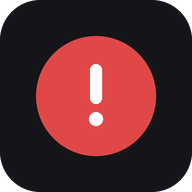
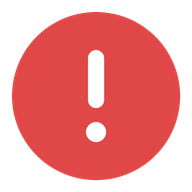
Notifications : icônes sans fond, symbole seul (v0.52.0)

diff --git a/CHANGELOG.md b/CHANGELOG.md
@@ -2,7 +2,7 @@
 
 ## v0.52.0 — 2026-11-23
 
-- **Notifications : de vraies icônes à la place des émojis.** Les titres ne contiennent plus d'émoji (🔴 🟠 🟢 ✍ ✅). La notification affiche à la place une **icône classique** selon sa nature : disque rouge « ! » (critique), triangle ambre (avertissement), disque vert avec coche (résolu, test), feuille signée (signature). Fichiers dans `frontend/public/notif/`. Les titres commencent par un mot (« Critique : », « Attention : », « Résolu : ») pour les appareils qui n'affichent que l'icône de l'appli, comme l'iPhone. Un test garantit qu'aucun titre de notification ne contient d'émoji.
+- **Notifications : de vraies icônes à la place des émojis.** Les titres ne contiennent plus d'émoji (🔴 🟠 🟢 ✍ ✅). La notification affiche à la place une **icône classique, sans fond**, selon sa nature : disque rouge « ! » (critique), triangle ambre (avertissement), disque vert avec coche (résolu, test), feuille signée (signature) ; PNG transparents, lisibles sur fond clair comme sur fond sombre. Fichiers dans `frontend/public/notif/`. Les titres commencent par un mot (« Critique : », « Attention : », « Résolu : ») pour les appareils qui n'affichent que l'icône de l'appli, comme l'iPhone. Un test garantit qu'aucun titre de notification ne contient d'émoji.
 - **Lien de signature : accès direct depuis la Supervision.** Dans l'onglet Signatures, chaque lien généré (bloc « À transmettre maintenant » et lien d'un signataire) a un bouton **« Ouvrir le lien »** qui ouvre la page de signature dans un nouvel onglet ; le code, affiché juste au-dessus, reste à saisir (procédure normale conservée).
 
 ## v0.51.2 — 2026-11-23
